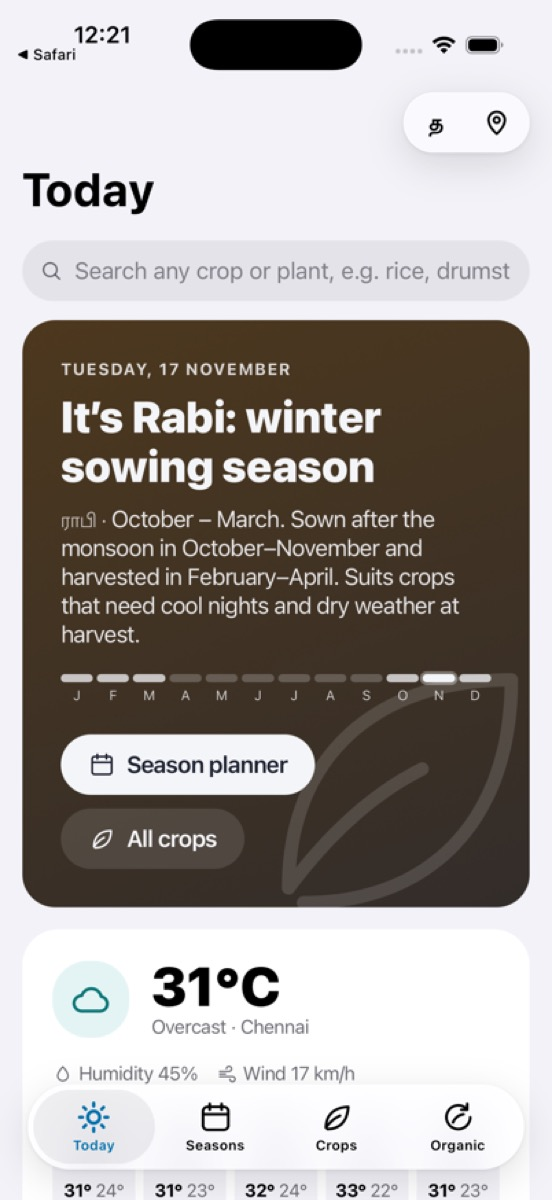
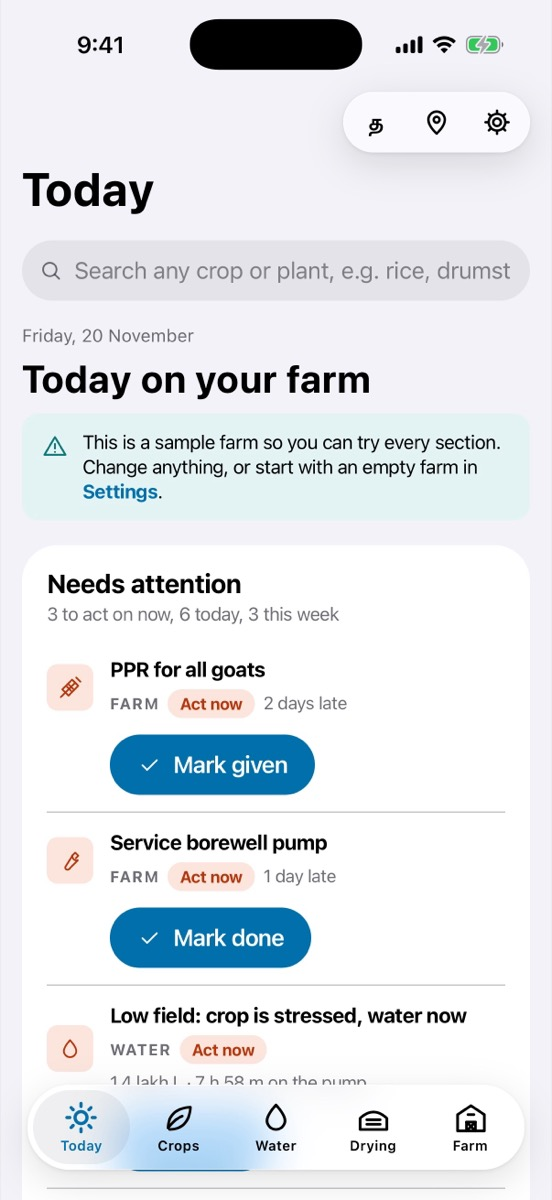
Combined FarmerFriend: native location (CoreLocation geo bridge + usage string), five-tab screenshots

diff --git a/FarmerFriend/AppWebView.swift b/FarmerFriend/AppWebView.swift
@@ -1,4 +1,5 @@
 import SwiftUI
+import CoreLocation
 import WebKit
 import SafariServices
 
@@ -30,6 +31,11 @@ struct AppWebView: UIViewRepresentable {
         config.mediaTypesRequiringUserActionForPlayback = []
         // "FarmerFriend-iOS" + "Kolam-iOS" let the page's kolam-ios.js turn on the iOS look.
         config.applicationNameForUserAgent = "FarmerFriend-iOS/1.0 Kolam-iOS/1.0 Mobile/15E148"
+        // Location: the page's navigator.geolocation is answered by CoreLocation (one iOS prompt, no second
+        // "this website would like to use your location" alert from WebKit).
+        config.userContentController.addScriptMessageHandler(context.coordinator.geo, contentWorld: .page, name: "geo")
+        config.userContentController.addUserScript(WKUserScript(source: GeoBridge.script, injectionTime: .atDocumentStart,
+                                                                forMainFrameOnly: true))
         config.userContentController.add(context.coordinator, name: "haptic")
         config.userContentController.addUserScript(WKUserScript(source: Self.shellScript(),
                                                                 injectionTime: .atDocumentStart,
@@ -73,11 +79,17 @@ struct AppWebView: UIViewRepresentable {
     final class Coordinator: NSObject, WKNavigationDelegate, WKUIDelegate, WKScriptMessageHandler {
         let parent: AppWebView
         var lastToken = 0
+        let geo = GeoBridge()
+        var ranDebugJS = false
         init(_ parent: AppWebView) { self.parent = parent }
 
         // MARK: Loading state
         func webView(_ webView: WKWebView, didFinish navigation: WKNavigation!) {
             parent.loading = false
+            #if DEBUG
+            // Debug builds only: `-KolamJS "<line>"` runs one line of JavaScript after the first load (screenshot set-up).
+            if !ranDebugJS, let js = UserDefaults.standard.string(forKey: "KolamJS") { ranDebugJS = true; webView.evaluateJavaScript(js) }
+            #endif
         }
         func webView(_ webView: WKWebView, didFailProvisionalNavigation navigation: WKNavigation!, withError error: Error) {
             if (error as NSError).code != NSURLErrorCancelled { parent.failed = true }
@@ -161,4 +173,97 @@ struct AppWebView: UIViewRepresentable {
             }
         }
     }
+}
+
+/// Native location for the page: a small navigator.geolocation shim posts to "geo" and gets a reply
+/// from CLLocationManager. permissions.query({ name: 'geolocation' }) reports the app's authorization.
+final class GeoBridge: NSObject, WKScriptMessageHandlerWithReply, CLLocationManagerDelegate {
+    private let manager = CLLocationManager()
+    private var waiting: [([String: Any]) -> Void] = []
+
+    override init() {
+        super.init()
+        manager.delegate = self
+        manager.desiredAccuracy = kCLLocationAccuracyHundredMeters
+    }
+
+    func userContentController(_ controller: WKUserContentController, didReceive message: WKScriptMessage,
+                               replyHandler: @escaping (Any?, String?) -> Void) {
+        let body = message.body as? [String: Any] ?? [:]
+        if body["op"] as? String == "state" { return replyHandler(state, nil) }
+        if (body["high"] as? Bool) == true { manager.desiredAccuracy = kCLLocationAccuracyBest }
+        waiting.append { replyHandler($0, nil) }
+        switch manager.authorizationStatus {
+        case .notDetermined: manager.requestWhenInUseAuthorization()   // continues in locationManagerDidChangeAuthorization
+        case .denied, .restricted: finish(["error": 1, "message": "Location permission denied"])
+        default: manager.requestLocation()
+        }
+    }
+
+    private var state: String {
+        switch manager.authorizationStatus {
+        case .authorizedAlways, .authorizedWhenInUse: return "granted"
+        case .denied, .restricted: return "denied"
+        default: return "prompt"
+        }
+    }
+
+    func locationManagerDidChangeAuthorization(_ m: CLLocationManager) {
+        guard !waiting.isEmpty else { return }
+        switch m.authorizationStatus {
+        case .notDetermined: return
+        case .denied, .restricted: finish(["error": 1, "message": "Location permission denied"])
+        default: m.requestLocation()
+        }
+    }
+    func locationManager(_ m: CLLocationManager, didUpdateLocations locations: [CLLocation]) {
+        guard let l = locations.last else { return }
+        finish(["latitude": l.coordinate.latitude, "longitude": l.coordinate.longitude, "accuracy": l.horizontalAccuracy,
+                "altitude": l.altitude, "timestamp": l.timestamp.timeIntervalSince1970 * 1000])
+    }
+    func locationManager(_ m: CLLocationManager, didFailWithError error: Error) {
+        let denied = (error as? CLError)?.code == .denied
+        finish(["error": denied ? 1 : 2, "message": error.localizedDescription])
+    }
+    private func finish(_ reply: [String: Any]) {
+        let w = waiting; waiting = []
+        manager.desiredAccuracy = kCLLocationAccuracyHundredMeters
+        w.forEach { $0(reply) }
+    }
+
+    /// The timeout only starts once permission is granted, so the iOS prompt never makes a request time out.
+    static let script = """
+    (function () {
+      var h = window.webkit && webkit.messageHandlers && webkit.messageHandlers.geo, g = navigator.geolocation;
+      if (!h || !g) return;
+      function err(code, message) { return { code: code, message: message, PERMISSION_DENIED: 1, POSITION_UNAVAILABLE: 2, TIMEOUT: 3 }; }
+      g.getCurrentPosition = function (ok, fail, o) {
+        o = o || {}; var done = false, timer = 0;
+        function end(f) { if (done) return; done = true; clearTimeout(timer); f(); }
+        h.postMessage({ op: 'state' }).then(function (s) {
+          if (s === 'granted' && o.timeout > 0 && o.timeout !== Infinity)
+            timer = setTimeout(function () { end(function () { fail && fail(err(3, 'Timeout')); }); }, o.timeout);
+          return h.postMessage({ op: 'get', high: !!o.enableHighAccuracy });
+        }).then(function (r) {
+          end(function () {
+            if (r.error) return fail && fail(err(r.error, r.message));
+            ok({ coords: { latitude: r.latitude, longitude: r.longitude, accuracy: r.accuracy, altitude: r.altitude,
+                           altitudeAccuracy: null, heading: null, speed: null }, timestamp: r.timestamp });
+          });
+        }, function (e) { end(function () { fail && fail(err(2, String(e))); }); });
+      };
+      var watches = 0;
+      g.watchPosition = function (ok, fail, o) { g.getCurrentPosition(ok, fail, o); return ++watches; };
+      g.clearWatch = function () {};
+      if (navigator.permissions && navigator.permissions.query) {
+        var q = navigator.permissions.query.bind(navigator.permissions);
+        navigator.permissions.query = function (d) {
+          if (!d || d.name !== 'geolocation') return q(d);
+          return h.postMessage({ op: 'state' }).then(function (s) {
+            return { name: 'geolocation', state: s, onchange: null, addEventListener: function () {}, removeEventListener: function () {} };
+          });
+        };
+      }
+    })();
+    """
 }

diff --git a/README.md b/README.md
@@ -6,7 +6,7 @@ Inside this app the page switches to Apple's Human Interface Guidelines look (Ko
 Liquid Glass tab bar, back + centred title, sheets, haptics); in Safari or any other browser it keeps its Kolam look.
 Web app source: https://github.com/tgopinath/farmer-friend
 
-<img src="screenshots/today.jpg" width="200" alt="Today"> <img src="screenshots/seasons.jpg" width="200" alt="Seasons"> <img src="screenshots/crops.jpg" width="200" alt="Crops"> <img src="screenshots/organic.jpg" width="200" alt="Organic"> 
+<img src="screenshots/today.jpg" width="200" alt="Today on your farm"> <img src="screenshots/crops.jpg" width="200" alt="Crops"> <img src="screenshots/water.jpg" width="200" alt="Water"> <img src="screenshots/drying.jpg" width="200" alt="Drying"> <img src="screenshots/farm.jpg" width="200" alt="Livestock and farm books"> 
 
 ## Run it
 
@@ -18,3 +18,7 @@ xcodebuild -project *.xcodeproj -scheme $(basename *.xcodeproj .xcodeproj) \
 Then install `build/Build/Products/Debug-iphonesimulator/*.app` with `xcrun simctl install booted …`.
 Debug builds accept `-KolamStartURL "<url>"` on `simctl launch` to open another route.
 Installing on other people's iPhones needs TestFlight or the App Store (Apple Developer Program).
+
+## Location
+
+The page's `navigator.geolocation` is answered by CoreLocation through a small bridge in `AppWebView.swift` (the same as SolarDryHouse-iOS), so "Use my location" shows one iOS permission prompt (`NSLocationWhenInUseUsageDescription`) and Water and Drying use the farm's own forecast.
